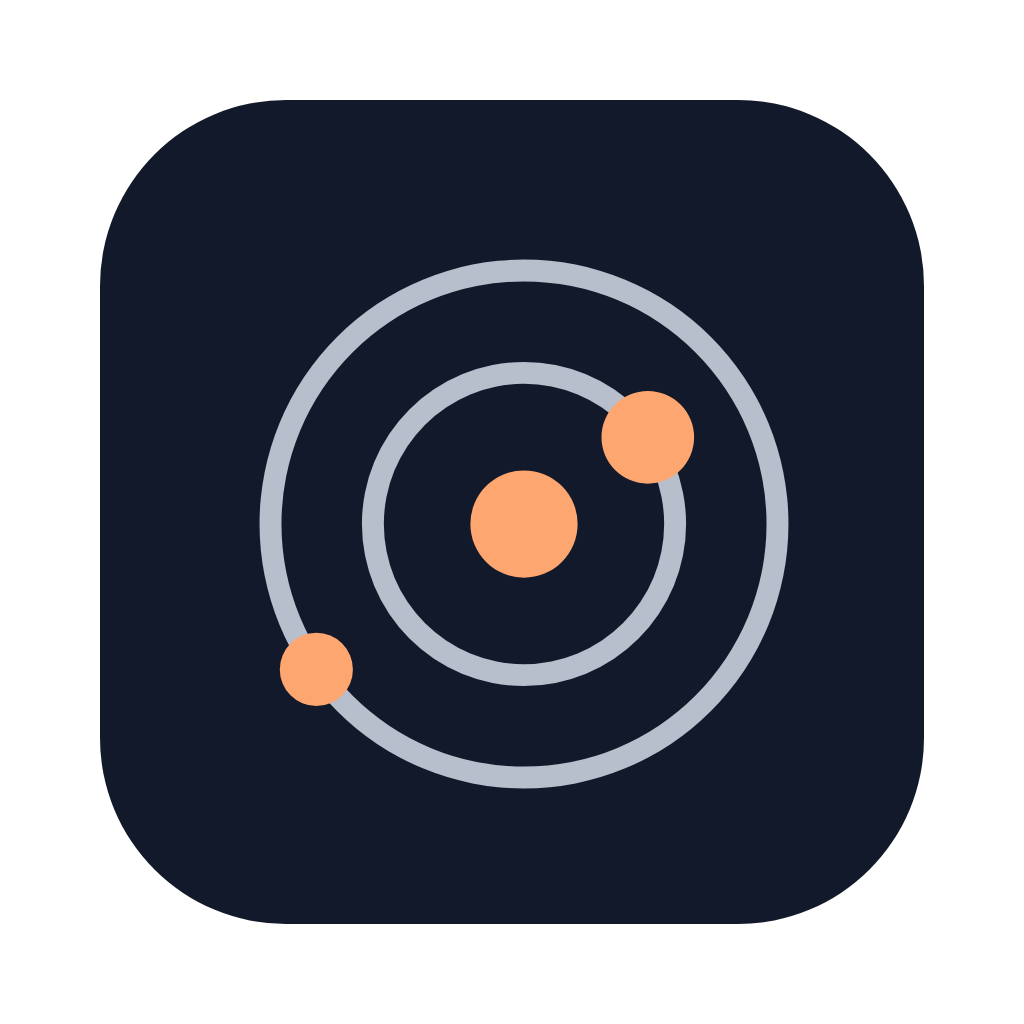
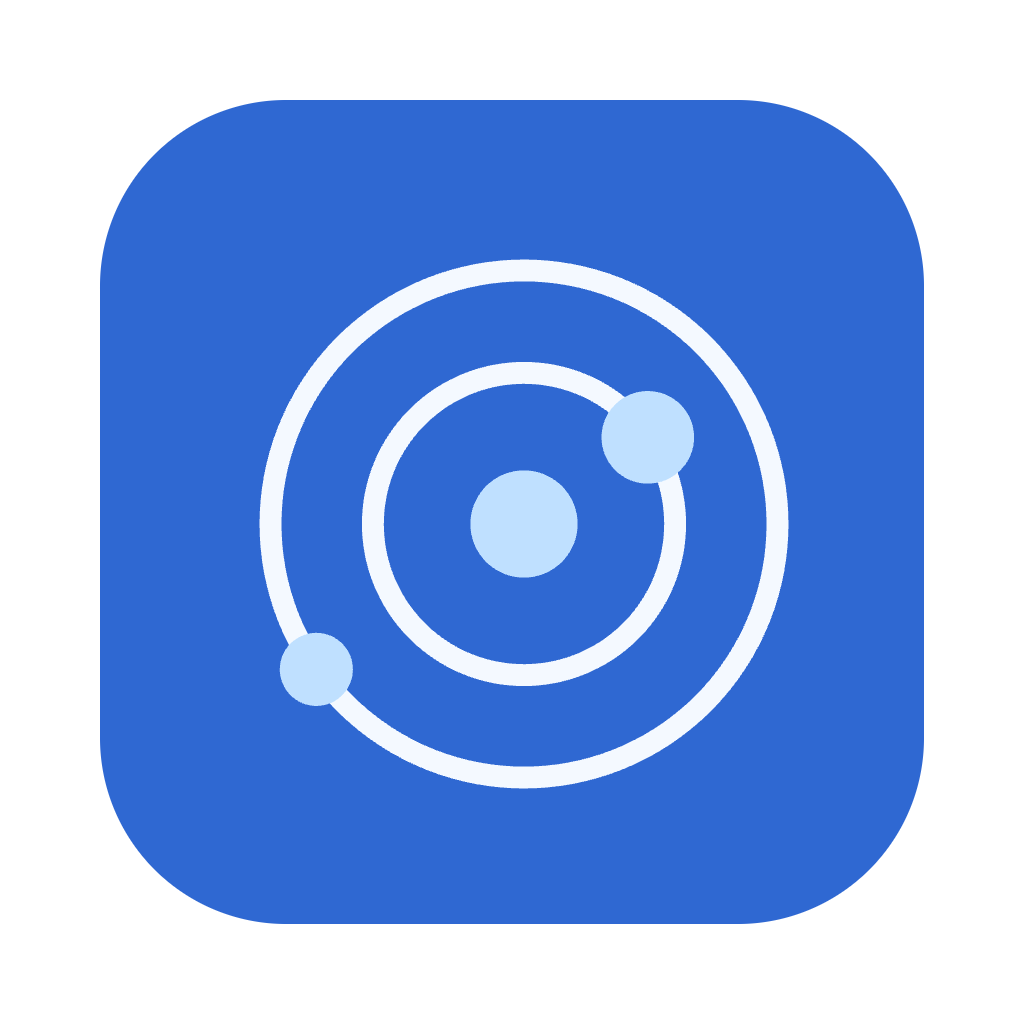
Liquid glass surfaces and sky-blue palette
Glass nav, cards, tiles, inputs and map over the live sky on every screen;
accent, logo, favicon and app icon move from ember to sky blue.

diff --git a/public/tokens.css b/public/tokens.css
@@ -1,5 +1,5 @@
 /* tastemark · tokens · sitesnap
- * theme: custom "day sky" · pale horizon paper, ink navy, one warm ember accent,
+ * theme: custom "day sky" · pale horizon, ink navy, one sky-blue accent, liquid glass surfaces,
  * automatic night variant · display Bricolage Grotesque · body Geist.
  * Fonts are served from this app (public/fonts), never a CDN: sitesnap is an
  * offline tool and must look right with the network unplugged.
@@ -30,31 +30,31 @@
    * carry a faint blue so white cards still read as part of the sky.
    */
   --color-paper: oklch(95.5% 0.025 238);
-  --color-paper-2: oklch(99% 0.006 238);
-  --color-paper-3: oklch(93% 0.025 238);
-  --color-paper-inset: oklch(96.5% 0.015 238);
+  --color-paper-2: oklch(100% 0 0 / 0.5);
+  --color-paper-3: oklch(55% 0.1 250 / 0.13);
+  --color-paper-inset: oklch(100% 0 0 / 0.4);
 
   --color-ink: oklch(23% 0.065 258);
   --color-ink-2: oklch(37% 0.055 258);
   --color-ink-3: oklch(46% 0.05 258);
 
   /* 55% keeps white button text at 4.8:1. */
-  --color-accent: oklch(55% 0.155 42);
-  --color-accent-strong: oklch(50% 0.155 40);
-  --color-accent-ink: oklch(50% 0.15 42);
-  --color-accent-wash: oklch(62% 0.15 45 / 0.12);
-  --color-accent-line: oklch(58% 0.15 45 / 0.5);
-  --color-on-accent: oklch(99% 0.005 75);
+  --color-accent: oklch(52% 0.17 255);
+  --color-accent-strong: oklch(46% 0.17 258);
+  --color-accent-ink: oklch(45% 0.16 258);
+  --color-accent-wash: oklch(55% 0.17 255 / 0.12);
+  --color-accent-line: oklch(52% 0.17 255 / 0.5);
+  --color-on-accent: oklch(99% 0.005 240);
 
   --color-danger: oklch(52% 0.17 27);
   --color-danger-wash: oklch(52% 0.17 27 / 0.1);
-  --color-focus: oklch(42% 0.15 258);
+  --color-focus: oklch(28% 0.1 262);
 
-  --color-rule: oklch(86% 0.02 238);
-  --color-rule-strong: oklch(74% 0.03 240);
-  --color-glass: oklch(99% 0.006 238 / 0.78);
+  --color-rule: oklch(100% 0 0 / 0.6);
+  --color-rule-strong: oklch(100% 0 0 / 0.85);
+  --color-glass: oklch(100% 0 0 / 0.46);
 
-  --bloom-warm: oklch(80% 0.11 55 / 0.2);
+  --bloom-warm: oklch(80% 0.08 235 / 0.2);
   --bloom-cool: oklch(80% 0.06 250 / 0.25);
 
   /* Behind dialogs, and the shadows that lift them. */
@@ -66,27 +66,33 @@
    * viewer shows other people's sites, which are designed against it. */
   --color-frame-canvas: Canvas;
 
+  /* Liquid glass: a pale fill, a bright edge, a lit top rim, a soft drop. */
+  --glass-blur: blur(16px) saturate(165%);
+  --glass-sheen: linear-gradient(135deg, oklch(100% 0 0 / 0.5), oklch(100% 0 0 / 0) 46%);
+  --glass-edge: oklch(100% 0 0 / 0.7);
+  --glass-shadow: inset 0 1px 0 oklch(100% 0 0 / 0.9), inset 0 -1px 0 oklch(100% 0 0 / 0.25), 0 14px 32px -14px oklch(42% 0.12 255 / 0.4);
+
   /* The sky itself. Read by public/sky.js as hex or rgb, never oklch. */
   --sky-zenith: #7db4ee;
   --sky-horizon: #dcecfb;
   --sky-cloud: #fdfeff;
-  --sky-glow: rgba(255, 240, 208, 0.95);
+  --sky-glow: rgba(228, 246, 255, 0.95);
   /* What the page shows where the live sky is not running. */
   --sky-fallback: linear-gradient(180deg, #a9cdf3 0%, #dcecfb 55%, #eef5fc 100%);
   --sky-calm: linear-gradient(180deg, oklch(92% 0.04 238) 0%, var(--color-paper) 22rem);
   /* A soft wash under type that sits on the moving sky. */
-  --sky-wash: oklch(99% 0.01 238 / 0.62);
+  --sky-wash: oklch(100% 0 0 / 0.5);
 
   /* Map colours, read by public/map.js at draw time. */
-  --map-node: oklch(58% 0.16 44);
-  --map-node-dim: oklch(58% 0.16 44 / 0.45);
+  --map-node: oklch(52% 0.17 255);
+  --map-node-dim: oklch(52% 0.17 255 / 0.45);
   --map-edge: oklch(40% 0.06 258 / 0.3);
   --map-ring: oklch(40% 0.06 258 / 0.2);
   --map-spark: oklch(35% 0.08 258);
-  --map-root: oklch(99% 0.006 238);
+  --map-root: oklch(100% 0 0 / 0.9);
   --map-track: oklch(40% 0.06 258 / 0.18);
   --map-label: oklch(24% 0.06 258);
-  --map-glow: oklch(70% 0.14 50 / 0.4);
+  --map-glow: oklch(62% 0.16 250 / 0.4);
 
   /* ---- type ----------------------------------------------------------- */
   --font-display: 'Bricolage Grotesque', ui-sans-serif, system-ui, sans-serif;
@@ -116,7 +122,7 @@
   --radius-md: 14px;
   --radius-lg: 22px;
   --radius-pill: 999px;
-  --shadow-raise: 0 1px 0 oklch(100% 0 0 / 0.8) inset, 0 18px 40px -26px oklch(40% 0.08 258 / 0.35);
+  --shadow-raise: var(--glass-shadow);
 
   /* ---- motion ---------------------------------------------------------
    * Three easings, no overshoot. This is a progress surface: things arrive
@@ -140,28 +146,28 @@
     color-scheme: dark;
 
     --color-paper: oklch(17% 0.032 268);
-    --color-paper-2: oklch(21.5% 0.036 268);
-    --color-paper-3: oklch(26% 0.04 268);
-    --color-paper-inset: oklch(14.5% 0.03 268);
+    --color-paper-2: oklch(30% 0.05 268 / 0.5);
+    --color-paper-3: oklch(80% 0.08 240 / 0.14);
+    --color-paper-inset: oklch(18% 0.04 268 / 0.5);
 
     --color-ink: oklch(96% 0.01 262);
     --color-ink-2: oklch(80% 0.022 264);
     --color-ink-3: oklch(66% 0.026 264);
 
-    --color-accent: oklch(80% 0.125 52);
-    --color-accent-strong: oklch(85% 0.12 55);
-    --color-accent-ink: oklch(82% 0.115 54);
-    --color-accent-wash: oklch(80% 0.125 52 / 0.12);
-    --color-accent-line: oklch(80% 0.125 52 / 0.45);
-    --color-on-accent: oklch(22% 0.045 45);
+    --color-accent: oklch(80% 0.1 235);
+    --color-accent-strong: oklch(86% 0.09 235);
+    --color-accent-ink: oklch(84% 0.09 235);
+    --color-accent-wash: oklch(80% 0.1 235 / 0.14);
+    --color-accent-line: oklch(80% 0.1 235 / 0.5);
+    --color-on-accent: oklch(20% 0.05 258);
 
     --color-danger: oklch(74% 0.14 25);
     --color-danger-wash: oklch(74% 0.14 25 / 0.12);
-    --color-focus: oklch(89% 0.1 60);
+    --color-focus: oklch(92% 0.06 235);
 
-    --color-rule: oklch(31% 0.035 268);
-    --color-rule-strong: oklch(41% 0.04 268);
-    --color-glass: oklch(21.5% 0.036 268 / 0.72);
+    --color-rule: oklch(100% 0 0 / 0.14);
+    --color-rule-strong: oklch(100% 0 0 / 0.26);
+    --color-glass: oklch(26% 0.05 268 / 0.5);
 
     --bloom-warm: oklch(72% 0.13 50 / 0.16);
     --bloom-cool: oklch(55% 0.12 262 / 0.22);
@@ -169,22 +175,25 @@
     --color-scrim: oklch(10% 0.03 268 / 0.6);
     --shadow-sheet: 0 30px 80px -30px oklch(5% 0.03 268 / 0.9);
     --shadow-side: 20px 0 40px -20px oklch(5% 0.03 268 / 0.8);
-    --shadow-raise: 0 1px 0 oklch(100% 0 0 / 0.04) inset, 0 18px 40px -24px oklch(8% 0.03 268 / 0.9);
+    --shadow-raise: var(--glass-shadow);
 
     --sky-zenith: #0a1330;
     --sky-horizon: #263a66;
     --sky-cloud: #6f86b8;
-    --sky-glow: rgba(255, 170, 110, 0.4);
+    --sky-glow: rgba(140, 190, 255, 0.35);
     --sky-fallback: linear-gradient(180deg, #0a1330 0%, #263a66 100%);
     --sky-calm: linear-gradient(180deg, oklch(21% 0.04 268) 0%, var(--color-paper) 22rem);
     --sky-wash: oklch(14% 0.04 268 / 0.5);
+    --glass-sheen: linear-gradient(135deg, oklch(100% 0 0 / 0.1), oklch(100% 0 0 / 0) 46%);
+    --glass-edge: oklch(100% 0 0 / 0.2);
+    --glass-shadow: inset 0 1px 0 oklch(100% 0 0 / 0.16), 0 16px 34px -16px oklch(5% 0.04 268 / 0.8);
 
     --map-node: var(--color-accent);
     --map-node-dim: oklch(80% 0.125 52 / 0.45);
     --map-edge: oklch(75% 0.04 264 / 0.26);
     --map-ring: oklch(75% 0.04 264 / 0.16);
     --map-spark: oklch(92% 0.02 262);
-    --map-root: oklch(24% 0.04 268);
+    --map-root: oklch(30% 0.05 268 / 0.9);
     --map-track: oklch(75% 0.04 264 / 0.18);
     --map-label: oklch(90% 0.015 262);
     --map-glow: oklch(80% 0.125 52 / 0.5);

diff --git a/public/app.css b/public/app.css
@@ -1,4 +1,4 @@
-/* tastemark · macrostructure: Map / Diagram (start screen: open sky, headline left) · genre: atmospheric · theme: custom day sky (pale horizon paper, ink navy, one ember accent, automatic night variant) · dials V6 M7 D4 · nav: plain full-width bar · footer: Ft5 statement · signature: Cloud Sky (Originkit, ported to vanilla WebGL) behind the start screen, plus the live site map while saving · sources: Originkit cloud-sky; hand-built vanilla · critique: P4 H4 E4 S4 R4 V4 */
+/* tastemark · macrostructure: Map / Diagram (start screen: open sky, headline left) · genre: atmospheric · theme: custom day sky (pale horizon paper, ink navy, one sky-blue accent, liquid glass surfaces, automatic night variant) · dials V6 M7 D4 · nav: plain full-width bar · footer: Ft5 statement · signature: Cloud Sky (Originkit, ported to vanilla WebGL) behind the start screen, plus the live site map while saving · sources: Originkit cloud-sky; hand-built vanilla · critique: P4 H4 E4 S4 R4 V4 */
 
 /* ---- base ---------------------------------------------------------------- */
 
@@ -877,7 +877,7 @@ main:focus {
 
 .tile input:checked {
   border-color: var(--color-accent);
-  box-shadow: inset 0 0 0 4px var(--color-paper-2), inset 0 0 0 10px var(--color-accent);
+  box-shadow: inset 0 0 0 4px oklch(100% 0 0), inset 0 0 0 10px var(--color-accent);
 }
 
 .tile:has(input:checked) {
@@ -2077,4 +2077,69 @@ main:focus {
   .sky {
     transition: none;
   }
+}
+
+
+/* ---- liquid glass -------------------------------------------------------------
+ * One recipe for every surface that sits on the sky: a pale translucent fill,
+ * the sky blurred and saturated behind it, a bright edge, a lit top rim and a
+ * soft sheen across the top-left corner. Buttons that carry the one action
+ * stay solid so the eye knows where to go.
+ */
+.nav,
+.site,
+.notice,
+.tile,
+.segment,
+.more,
+.address__row,
+.tally,
+.snap,
+.map,
+.empty,
+.btn:not(.btn--primary):not(.btn--quiet):not(.btn--danger),
+.field input,
+.field select,
+.viewer__bar,
+.sheet,
+.map__tip,
+.toast {
+  -webkit-backdrop-filter: var(--glass-blur);
+  backdrop-filter: var(--glass-blur);
+  border-color: var(--glass-edge);
+}
+
+.site,
+.notice,
+.tile,
+.segment,
+.more,
+.address__row,
+.tally,
+.snap,
+.map,
+.sheet {
+  background-image: var(--glass-sheen);
+  box-shadow: var(--glass-shadow);
+}
+
+.nav {
+  border-bottom-color: var(--glass-edge);
+  box-shadow: inset 0 -1px 0 oklch(100% 0 0 / 0.25), 0 10px 30px -18px oklch(42% 0.12 255 / 0.35);
+}
+
+.btn:not(.btn--primary):not(.btn--quiet):not(.btn--danger) {
+  box-shadow: inset 0 1px 0 oklch(100% 0 0 / 0.8), 0 6px 14px -8px oklch(42% 0.12 255 / 0.35);
+}
+
+.btn--primary {
+  box-shadow: inset 0 1px 0 oklch(100% 0 0 / 0.35), 0 10px 22px -10px oklch(42% 0.17 255 / 0.65);
+}
+
+.address__row:focus-within {
+  border-color: var(--color-accent);
+}
+
+.map {
+  background-color: var(--color-paper-2);
 }

diff --git a/public/gate.css b/public/gate.css
@@ -231,3 +231,17 @@ body {
   pointer-events: none;
 }
 
+
+/* Liquid glass, same recipe as the app (see app.css). */
+.gate__input {
+  background-color: var(--color-paper-inset);
+  background-image: var(--glass-sheen);
+  border-color: var(--glass-edge);
+  box-shadow: var(--glass-shadow);
+  -webkit-backdrop-filter: var(--glass-blur);
+  backdrop-filter: var(--glass-blur);
+}
+
+.gate__button {
+  box-shadow: inset 0 1px 0 oklch(100% 0 0 / 0.35), 0 10px 22px -10px oklch(42% 0.17 255 / 0.65);
+}

diff --git a/public/index.html b/public/index.html
@@ -15,7 +15,7 @@
     <link rel="icon" href="favicon.ico" sizes="48x48" />
     <link rel="apple-touch-icon" href="apple-touch-icon.png" />
   </head>
-  <body data-route="save" data-view="start">
+  <body data-route="save" data-view="start" data-always-sky>
     <div class="sky" id="sky" aria-hidden="true"><canvas id="sky-canvas"></canvas></div>
     <a class="skip" href="#main">Skip to content</a>
 
